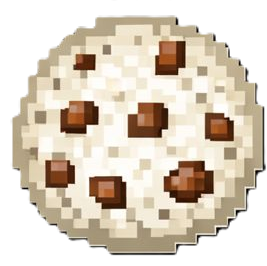
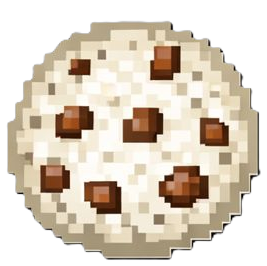
made the images more centered

diff --git a/main.py b/main.py
@@ -9,19 +9,22 @@ pygame.display.set_caption("Cookie clicker")
 
 
 class Cookie:
-    def __init__(self, x_pos, y_pos,width, height):
+    def __init__(self, x_pos:int, y_pos:int, width:int, height:int, click = 1):
         self._x_pos = x_pos
         self._y_pos = y_pos
         self._width = width
         self._height = height
+        self._click = click
 
     def draw():
-        
         cookie = pygame.image.load(f"cookies/cookies_{cookie_level}.png")
         cookie_rect = cookie.get_rect()
         cookie_rect.center = (WINDOW_WIDTH // 2, WINDOW_HEIGHT // 2)
 
         window.blit(cookie, cookie_rect)
+
+    def cookie_clicked():
+         pass
 
 
 
@@ -30,7 +33,6 @@ class Cookie:
 
 
 cookie_level = 1
-
 
 font = pygame.font.SysFont('Arial', 32)
 
